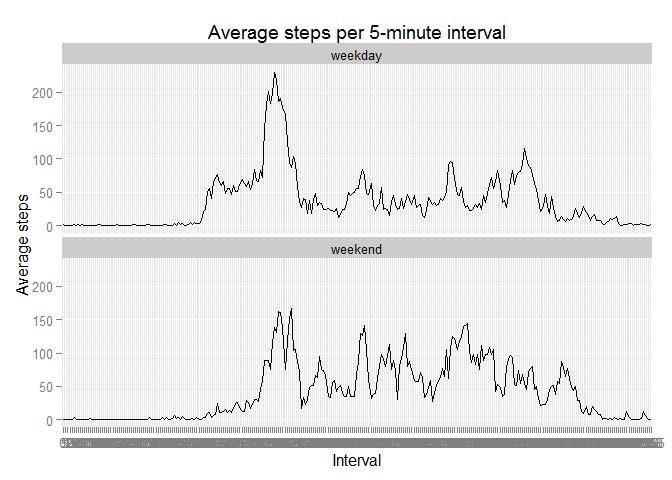
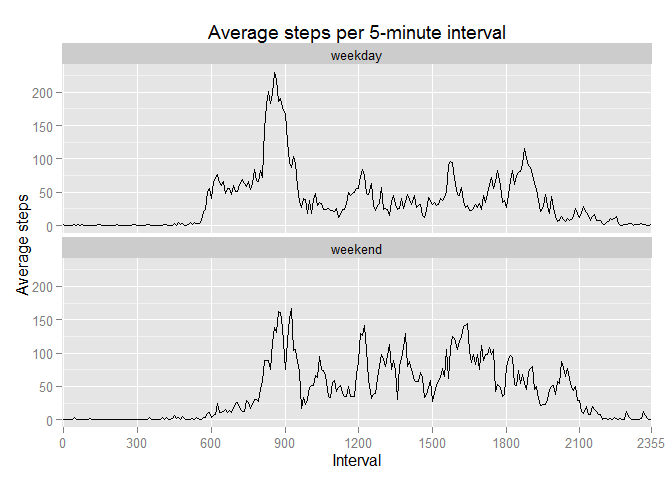
Committing files for Assignment 1 November 2015

Changed region(s): [[0.0938, 0.5312, 1.0, 0.9375], [0.0938, 0.125, 0.9688, 0.5]]

diff --git a/PA1_template.html b/PA1_template.html
@@ -66,7 +66,7 @@ img {
 
 <div id="loading-and-preprocessing-the-data" class="section level2">
 <h2>Loading and preprocessing the data</h2>
-<p>First, unzip the file</p>
+<p>First step, unzip the file</p>
 <pre class="r"><code>unzip(&quot;activity.zip&quot;, setTimes=TRUE)</code></pre>
 <p>Read the data into a dataframe named <strong>activity</strong></p>
 <pre class="r"><code>activity &lt;- read.csv(&quot;activity.csv&quot;, stringsAsFactors=FALSE)</code></pre>
@@ -86,7 +86,7 @@ img {
 </div>
 <div id="what-is-mean-total-number-of-steps-taken-per-day" class="section level2">
 <h2>What is mean total number of steps taken per day?</h2>
-<p>Create a date factor and summarize into a new data frame</p>
+<p>Create a date factor, summarize into a new data frame</p>
 <pre class="r"><code>activity$date_f &lt;- as.factor(activity$date)
 
 steps_per_day &lt;- summarise(group_by(activity, date_f), 
@@ -101,13 +101,14 @@ steps_per_day &lt;- summarise(group_by(activity, date_f),
 </div>
 <div id="calculate-and-report-the-mean-and-median-total-number-of-steps-taken-per-day" class="section level3">
 <h3>Calculate and report the mean and median total number of steps taken per day</h3>
-</div>
-</div>
-<div id="calculate-mean-and-median" class="section level1">
-<h1>calculate mean and median</h1>
+<div id="calculate-mean-and-median" class="section level4">
+<h4>Calculate mean and median</h4>
 <pre class="r"><code>mean_steps_per_day = mean(steps_per_day$totalsteps)
 median_steps_per_day = median(steps_per_day$totalsteps)</code></pre>
 <p>The <strong>mean</strong> number of steps per day = 9354.2295082<br />The <strong>median</strong> number of steps per day = 10395</p>
+</div>
+</div>
+</div>
 <div id="what-is-the-average-daily-activity-pattern" class="section level2">
 <h2>What is the average daily activity pattern?</h2>
 <p>Summarize the data for all days by grouping by the interval</p>
@@ -124,7 +125,7 @@ lines(interval_avg_df$interval_f, interval_avg_df$avg_steps, type=&quot;l&quot;)
 <pre class="r"><code>index_max &lt;- which.max(interval_avg_df$avg_steps)
 interval_at_max &lt;- levels(interval_avg_df$interval_f)[index_max]
 max_avg_steps &lt;- interval_avg_df$avg_steps[index_max]</code></pre>
-<p>The maximum number of average steps in a 5-minute interval is 206.1698113 and occurs at interval 835.</p>
+<p>The maximum number of average steps in a 5-minute interval is <strong>206.1698113</strong> and occurs at interval <strong>835</strong>.</p>
 </div>
 <div id="imputing-missing-values" class="section level2">
 <h2>Imputing missing values</h2>
@@ -138,9 +139,8 @@ missing_interval &lt;- sum(is.na(activity$interval))</code></pre>
 </div>
 <div id="to-fill-in-missing-values-will-use-the-average-value-for-the-5-minute-interval" class="section level3">
 <h3>To fill in missing values, will use the average value for the 5-minute interval</h3>
-</div>
-<div id="create-a-new-data-frame-new_act-that-has-the-missing-values-filled-in" class="section level3">
-<h3>Create a new data frame <strong>new_act</strong> that has the missing values filled in</h3>
+<div id="create-a-new-data-frame-new_act-that-has-the-missing-values-filled-in" class="section level4">
+<h4>Create a new data frame <strong>new_act</strong> that has the missing values filled in</h4>
 <pre class="r"><code># get the indices (into the 'activity' df) that have NAs
 indices_nas &lt;- which(is.na(activity$steps))
 
@@ -163,10 +163,11 @@ new_act$new_steps &lt;- new_act$steps
 # in this new column, write in the averages for the intervals
 new_act$new_steps[indices_nas] &lt;- values_pos_avg_steps_df</code></pre>
 </div>
-<div id="verify-there-are-no-nas-in-the-new-data" class="section level3">
-<h3>verify there are no NAs in the new data</h3>
+<div id="verify-there-are-no-nas-in-the-new-data" class="section level4">
+<h4>verify there are no NAs in the new data</h4>
 <pre class="r"><code>num_nas_new &lt;- sum(is.na(new_act$new_steps))</code></pre>
 <p>The number of missing values in the new data: 0</p>
+</div>
 </div>
 <div id="now-making-a-histogram-of-the-new-filled-in-dataset" class="section level3">
 <h3>Now making a histogram of the new, filled-in dataset</h3>
@@ -184,12 +185,12 @@ hist(new_steps_per_day$totalsteps,
            ylab = &quot;Count&quot;)</code></pre>
[1 lines of base64/hex data omitted]
 </div>
-<div id="calculating-mean-and-medain-for-the-new-dataset" class="section level3">
-<h3>Calculating mean and medain for the new dataset</h3>
+<div id="calculating-mean-and-median-for-the-new-dataset" class="section level3">
+<h3>Calculating mean and median for the new dataset</h3>
 <pre class="r"><code># calculate mean and median
 mean_new_steps_per_day = mean(new_steps_per_day$totalsteps)
 median_new_steps_per_day = median(new_steps_per_day$totalsteps)</code></pre>
-<p>The new <strong>mean</strong> number of steps per day = 1.076618910^{4}<br />The new <strong>median</strong> number of steps per day = 1.076618910^{4}</p>
+<p>The new <strong>mean</strong> number of steps per day = <strong>1.076618910^{4}</strong><br />The new <strong>median</strong> number of steps per day = <strong>1.076618910^{4}</strong></p>
 </div>
 <div id="do-these-values-differ-from-the-estimates-from-the-first-part-of-the-assignment" class="section level3">
 <h3>Do these values differ from the estimates from the first part of the assignment?</h3>
@@ -203,13 +204,13 @@ percent_change_in_median = 100 * (change_in_median / median_steps_per_day)</code
 <div id="impact" class="section level3">
 <h3>Impact:</h3>
 <ul>
-<li>The <strong>mean</strong> increased by 1411.959171 (15.0943396%)</li>
-<li>The <strong>median</strong> increased by 371.1886792 (3.5708387%)</li>
+<li>The <strong>mean</strong> increased by <strong>1411.959171</strong> (15.0943396%)</li>
+<li>The <strong>median</strong> increased by <strong>371.1886792</strong> (3.5708387%)</li>
 </ul>
 </div>
 <div id="what-is-the-impact-of-imputing-missing-data-on-the-estimates-of-the-total-daily-number-of-steps" class="section level3">
 <h3>What is the impact of imputing missing data on the estimates of the total daily number of steps?</h3>
-<p>Answer: The impact of imputing missing data on the estimates is that the estimates went up.<br />This is not surprising given that the missing data was essentially counted as 0</p>
+<p><strong>Answer:</strong> The impact of imputing missing data on the estimates is that the estimates went up.<br />This is not surprising given that the missing data was essentially counted as 0</p>
 </div>
 </div>
 <div id="are-there-differences-in-activity-patterns-between-weekdays-and-weekends" class="section level2">
@@ -239,9 +240,9 @@ library(ggplot2)</code></pre>
 print(ggplot(new_interval_avg_df, aes(x=interval_f,y=avg_steps, group=1)) 
       + geom_line() 
       + facet_wrap(~ day_type, ncol=1)
-      + labs(title=&quot;Average steps per 5-minute interval&quot;, x=&quot;Interval&quot;, y=&quot;Average steps&quot;))</code></pre>
[1 lines of base64/hex data omitted]
-</div>
+      + labs(title=&quot;Average steps per 5-minute interval&quot;, x=&quot;Interval&quot;, y=&quot;Average steps&quot;)
+      + scale_x_discrete(breaks=c(0, 300, 600, 900, 1200, 1500, 1800, 2100, 2355)))</code></pre>
[1 lines of base64/hex data omitted]
 </div>
 
 

diff --git a/PA1_template.md b/PA1_template.md
@@ -3,7 +3,7 @@
 
 ## Loading and preprocessing the data
 
-First, unzip the file
+First step, unzip the file
 
 ```r
 unzip("activity.zip", setTimes=TRUE)
@@ -40,7 +40,7 @@ library(dplyr)
 
 ## What is mean total number of steps taken per day?
 
-Create a date factor and summarize into a new data frame
+Create a date factor, summarize into a new data frame
 
 ```r
 activity$date_f <- as.factor(activity$date)
@@ -62,7 +62,7 @@ hist(steps_per_day$totalsteps,
 
 
 ### Calculate and report the mean and median total number of steps taken per day
-# calculate mean and median
+#### Calculate mean and median
 
 ```r
 mean_steps_per_day = mean(steps_per_day$totalsteps)
@@ -98,7 +98,7 @@ interval_at_max <- levels(interval_avg_df$interval_f)[index_max]
 max_avg_steps <- interval_avg_df$avg_steps[index_max]
 ```
 
-The maximum number of average steps in a 5-minute interval is 206.1698113 and occurs at interval 835.
+The maximum number of average steps in a 5-minute interval is **206.1698113** and occurs at interval **835**.
 
 
 ## Imputing missing values
@@ -121,7 +121,7 @@ Number of missing values of variable **interval** = 0
 
 ### To fill in missing values, will use the average value for the 5-minute interval
 
-### Create a new data frame **new_act** that has the missing values filled in
+#### Create a new data frame **new_act** that has the missing values filled in
 
 ```r
 # get the indices (into the 'activity' df) that have NAs
@@ -147,7 +147,7 @@ new_act$new_steps <- new_act$steps
 new_act$new_steps[indices_nas] <- values_pos_avg_steps_df
 ```
 
-### verify there are no NAs in the new data
+#### verify there are no NAs in the new data
 
 ```r
 num_nas_new <- sum(is.na(new_act$new_steps))
@@ -173,7 +173,7 @@ hist(new_steps_per_day$totalsteps,
 
 ![](PA1_template_files/figure-html/unnamed-chunk-12-1.png) 
 
-### Calculating mean and medain for the new dataset
+### Calculating mean and median for the new dataset
 
 
 ```r
@@ -182,8 +182,8 @@ mean_new_steps_per_day = mean(new_steps_per_day$totalsteps)
 median_new_steps_per_day = median(new_steps_per_day$totalsteps)
 ```
 
-The new **mean** number of steps per day = 1.0766189\times 10^{4}  
-The new **median** number of steps per day = 1.0766189\times 10^{4}
+The new **mean** number of steps per day = **1.0766189\times 10^{4}**  
+The new **median** number of steps per day = **1.0766189\times 10^{4}**
 
 ###  Do these values differ from the estimates from the first part of the assignment? 
 
@@ -198,12 +198,12 @@ percent_change_in_median = 100 * (change_in_median / median_steps_per_day)
 ```
 
 ### Impact:  
-* The **mean** increased by 1411.959171 (15.0943396%)
-* The **median** increased by 371.1886792 (3.5708387%)
+* The **mean** increased by **1411.959171** (15.0943396%)
+* The **median** increased by **371.1886792** (3.5708387%)
 
 ### What is the impact of imputing missing data on the estimates of the total daily number of steps?
 
-Answer:
+**Answer:**
 The impact of imputing missing data on the estimates is that the estimates went up.  
 This is not surprising given that the missing data was essentially counted as 0
 
@@ -243,7 +243,8 @@ new_interval_avg_df <- summarise(group_by(new_act, interval_f, day_type),
 print(ggplot(new_interval_avg_df, aes(x=interval_f,y=avg_steps, group=1)) 
       + geom_line() 
       + facet_wrap(~ day_type, ncol=1)
-      + labs(title="Average steps per 5-minute interval", x="Interval", y="Average steps"))
+      + labs(title="Average steps per 5-minute interval", x="Interval", y="Average steps")
+      + scale_x_discrete(breaks=c(0, 300, 600, 900, 1200, 1500, 1800, 2100, 2355)))
 ```
 
 ![](PA1_template_files/figure-html/unnamed-chunk-15-1.png) 
